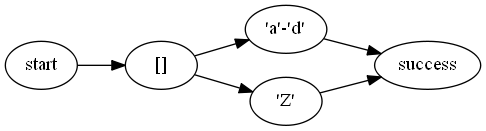
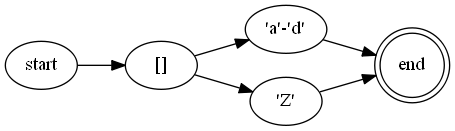
Update diagrams with 'end' Success node

Changed region(s): [[0.2154, 0.0305, 1.0, 0.9771], [0.0, 0.3053, 0.1231, 0.6718], [0.0615, 0.3359, 0.1846, 0.7023]]

diff --git a/README.md b/README.md
@@ -395,6 +395,8 @@ by spawning and connecting child processes.
 The child processes are _linked_ to the `Start` process,
 so the whole network can be torn down after use, or on error.
 
+The `Success` node is labelled with `end` in the NFA graph diagrams.
+
 The process network has a lifecycle based on _batch_ or _oneshot_ patterns.
 
 ### Execution Process
@@ -449,7 +451,7 @@ The `*` node receives `2"b"`, duplicates it to make `4"b"`
 and sends them to its outputs.
 The `Executor` is notified of each copy to increment the total count.
 
-The Success `End` node receives `1"ab"` and `2"b"`, 
+The Success `end` node receives `1"ab"` and `2"b"`, 
 but these are not all consumed, so it notifies the `Executor`
 to decrement the total count for failed matches.
 
@@ -464,7 +466,7 @@ sends them to its outputs, and notifies the `Executor` of the extra traversal.
 The `b` node receives the empty string, which does not match,
 so it notifies the `Executor` to decrement the total count for a failed match.
 
-The Success `End` node receives `4""`, which is the empty string,
+The Success `end` node receives `4""`, which is the empty string,
 so it notifies the `Executor` of a complete successful match.
 The `Executor` reports a match result and terminates.
 
